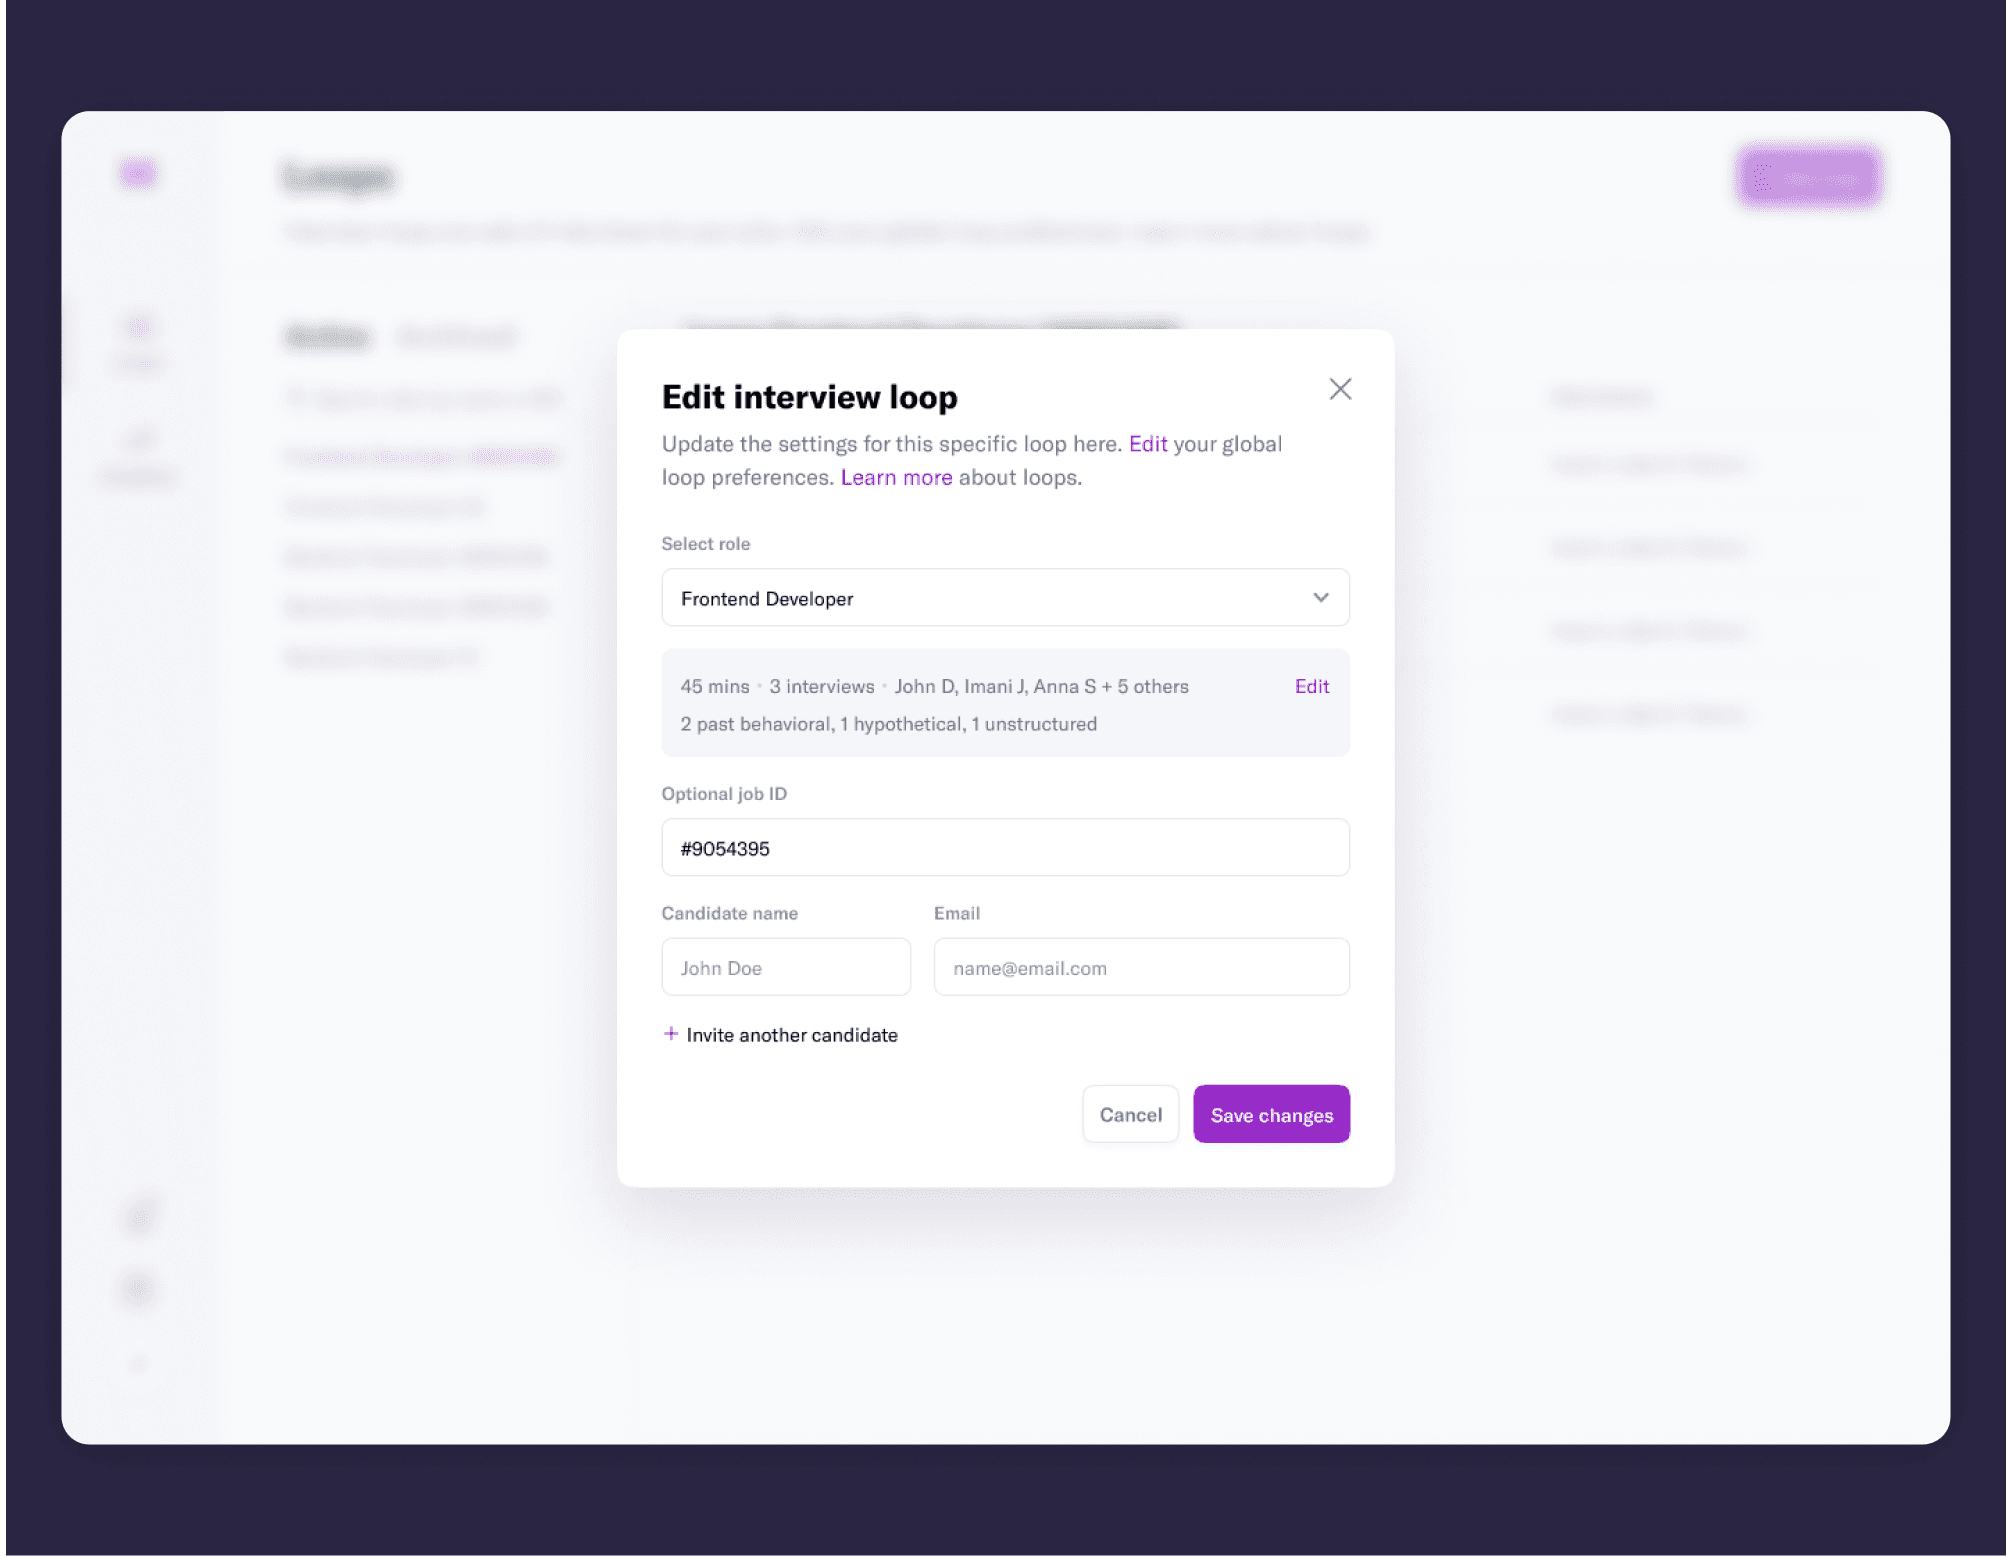
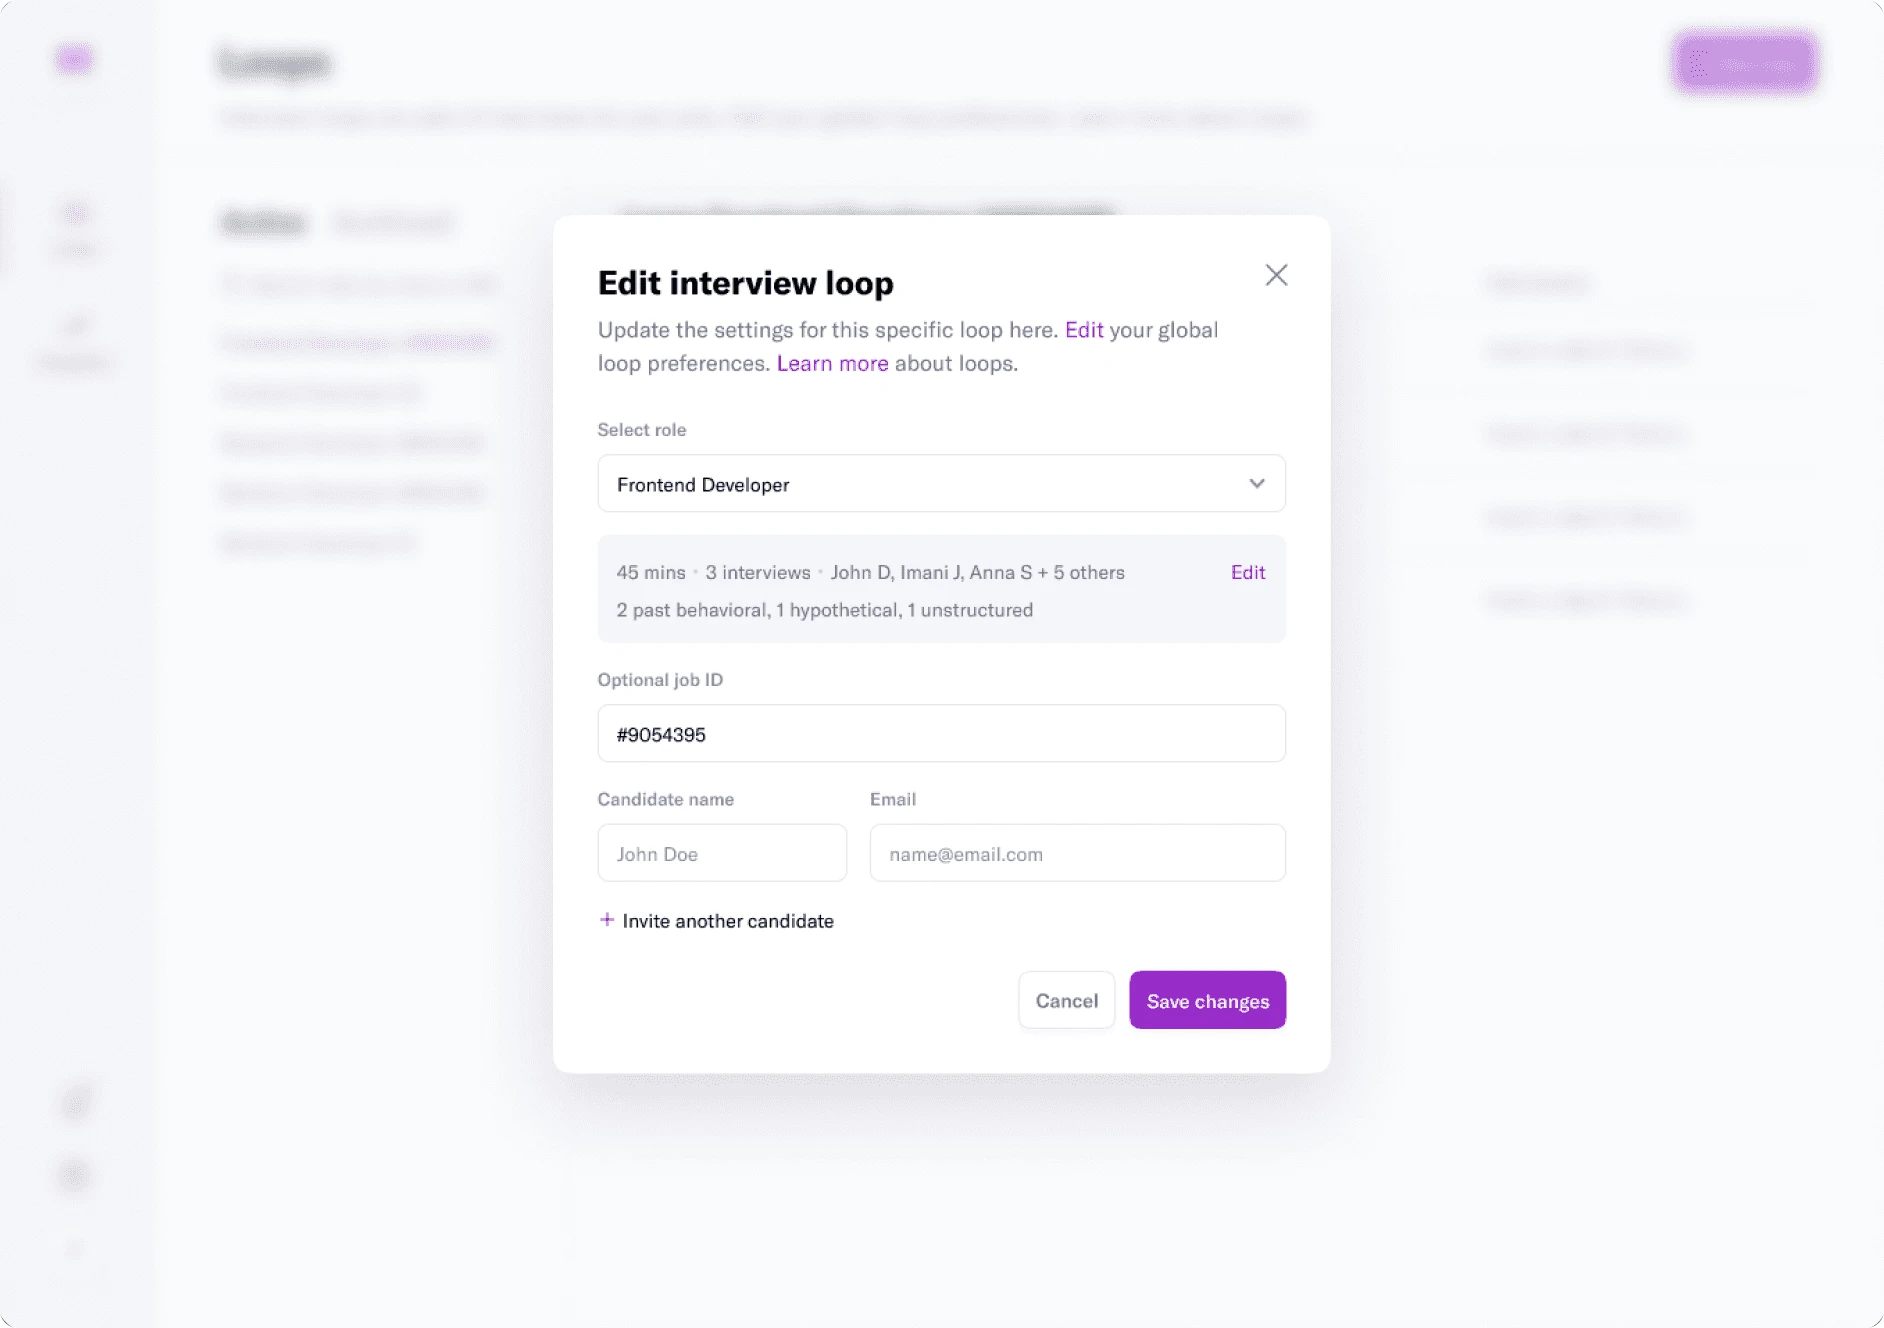
Hirement: Loops as the opening screen, screens without baked-in backgrounds, Wireframe first; Giant Pumpkin copy trim

diff --git a/src/data/projects.ts b/src/data/projects.ts
@@ -81,7 +81,12 @@ export type ContentBlock =
         takeaway: string;
       }[];
     }
-  | { type: "gallery"; images: { src: string; alt: string; caption?: string }[] }
+  | {
+      type: "gallery";
+      images: { src: string; alt: string; caption?: string }[];
+      /** Each screen in the case study's frame (rounded, hairline, soft shadow) on the white page. */
+      plain?: boolean;
+    }
   /**
    * Toggle between one surface before and after the redesign.
    * Both images must share an aspect ratio — see BeforeAfter.
@@ -105,6 +110,8 @@ export type ContentBlock =
       dark?: boolean;
       /** No panel: the frame sits on the white page with a soft shadow. */
       plain?: boolean;
+      /** Open on the "before" state instead of "after". */
+      startBefore?: boolean;
     }
   /** Outcome cards (Nadiia style); `green` marks a headline result. */
   | {
@@ -1637,6 +1644,10 @@ export const projects: Project[] = [
     duration: "2.5 months",
     tools: ["Figma"],
     screenshots: [{ src: "/projects/hirement.png", alt: "Hirement interview flow builder" }],
+    hero: {
+      src: "/projects/hirement/10.webp",
+      alt: "Hirement's loops list, grouped by role: candidates, interview progress, interviewers and ratings in one table",
+    },
     lastUpdated: "2023",
     content: [
       { type: "section", id: "problem", title: "Problem" },
@@ -1687,6 +1698,7 @@ export const projects: Project[] = [
         beforeLabel: "Wireframe",
         afterLabel: "Color",
         plain: true,
+        startBefore: true,
         // Cropped to actual content bounds (both frames had dead space below
         // the UI baked in). Sized to the taller of the two at this width.
         maxWidth: 896,
@@ -1716,20 +1728,14 @@ export const projects: Project[] = [
         text: "Each role's loop tracks every candidate's status, interviewers, and running average rating in one table. A loop stays editable after interviews are scheduled, with role, candidates, and invite details in one place. And mid-interview, an interviewer can pull up the candidate's full profile without losing their place in the question.",
       },
       {
-        type: "gallery",
-        images: [
-          {
-            src: "/projects/hirement/2.webp",
-            alt: "Hirement loop dashboard showing candidates for a role",
-          },
-          {
-            src: "/projects/hirement/3.webp",
-            alt: "Hirement edit interview loop modal",
-          },
-        ],
+        type: "image",
+        plain: true,
+        src: "/projects/hirement/3.webp",
+        alt: "Hirement edit interview loop modal",
       },
       {
         type: "image",
+        plain: true,
         src: "/projects/hirement/4.webp",
         alt: "Hirement interview screen with candidate profile lookup open",
       },
@@ -1821,7 +1827,7 @@ export const projects: Project[] = [
       { type: "section", id: "final-design", title: "Final design" },
       {
         type: "paragraph",
-        text: "The site walks a visitor from what the product does, through services, to the team behind it — a single narrative page rather than a stack of disconnected sections.",
+        text: "The site walks a visitor from what the product does, through services, to the team behind it.",
       },
       {
         type: "image",

diff --git a/src/pages/CaseStudy.tsx b/src/pages/CaseStudy.tsx
@@ -717,6 +717,7 @@ function Block({
             viewportHeight={block.viewportHeight}
             caption={block.caption}
             plain={block.plain}
+            startBefore={block.startBefore}
             dark={block.dark ?? dark}
             onImageClick={onImageClick}
             zoomCursor={zoomCursor}
@@ -765,7 +766,11 @@ function Block({
               <img
                 src={img.src}
                 alt={img.alt}
-                className="w-full cursor-none"
+                className={`w-full cursor-none ${
+                  block.plain
+                    ? `${FRAME_RADIUS} shadow-[0_2px_4px_rgba(0,0,0,0.04),0_12px_32px_rgba(0,0,0,0.08)] ring-1 ring-black/10`
+                    : ""
+                }`}
                 onClick={() => onImageClick(img.src)}
                 onMouseMove={zoomCursor.onMouseMove}
                 onMouseLeave={zoomCursor.onMouseLeave}

diff --git a/src/components/BeforeAfter.tsx b/src/components/BeforeAfter.tsx
@@ -37,6 +37,7 @@ export default function BeforeAfter({
   dark = false,
   plain = false,
   beforePins,
+  startBefore = false,
 }: {
   before: string;
   after: string;
@@ -58,8 +59,10 @@ export default function BeforeAfter({
   plain?: boolean;
   /** Numbered markers on the "before" screen, with notes on hover. */
   beforePins?: Pin[];
+  /** Open on the "before" state instead of "after". */
+  startBefore?: boolean;
 }) {
-  const [showAfter, setShowAfter] = useState(true);
+  const [showAfter, setShowAfter] = useState(!startBefore);
   // Per-pane, because the two states are rarely the same length.
   const [hasMore, setHasMore] = useState<[boolean, boolean]>([false, false]);
   const boxRef = useRef<HTMLDivElement>(null);
